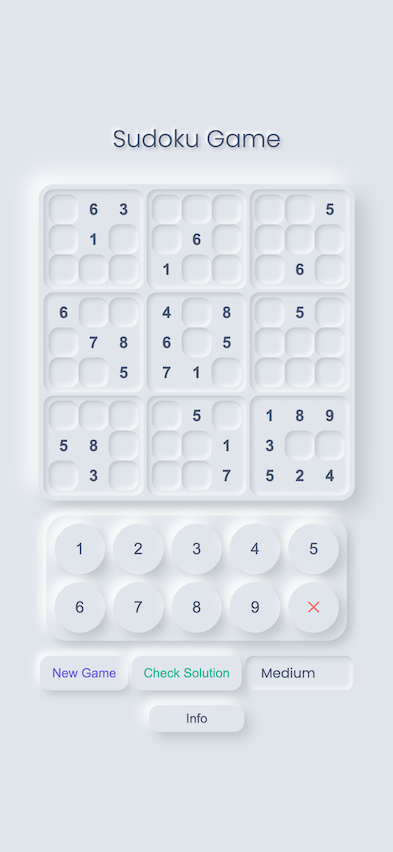
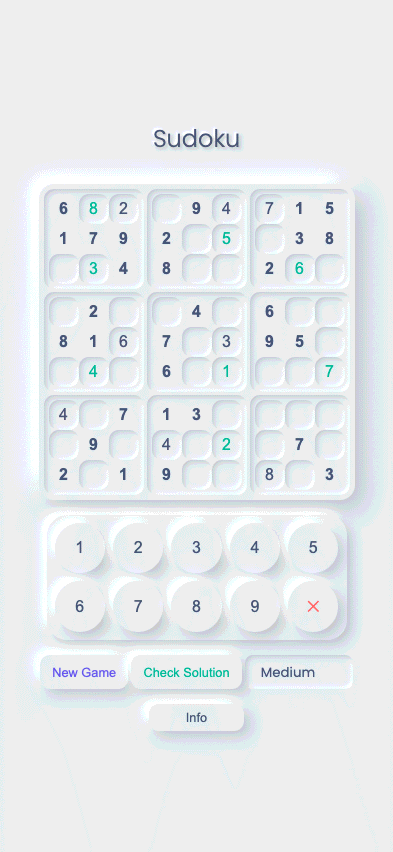
Sudoku: title without 'Game', N for a new game, key table instructions; mouse-only hover; new screenshots

diff --git a/index.html b/index.html
@@ -3,18 +3,18 @@
 <head>
     <meta charset="UTF-8">
     <meta name="viewport" content="width=device-width, initial-scale=1.0">
-    <title>Sudoku Game</title>
+    <title>Sudoku</title>
     <meta name="description" content="Challenge your mind with this classic Japanese number puzzle game. Fill the grid following Sudoku rules.">
     <meta name="theme-color" content="#e0e5ec">
     <meta property="og:type" content="website">
     <meta property="og:site_name" content="DanyilT Games">
-    <meta property="og:title" content="Sudoku Game">
+    <meta property="og:title" content="Sudoku">
     <meta property="og:description" content="Challenge your mind with this classic Japanese number puzzle game. Fill the grid following Sudoku rules.">
     <meta property="og:url" content="https://sudoku.dt-games.pages.dev/">
     <meta property="og:image" content="https://sudoku.dt-games.pages.dev/img/desktop-screenshot.png">
     <meta property="og:image:width" content="1440">
     <meta property="og:image:height" content="900">
-    <meta property="og:image:alt" content="Sudoku Game: a Sudoku puzzle with its number pad, on a computer">
+    <meta property="og:image:alt" content="Sudoku: a Sudoku puzzle with its number pad, on a computer">
     <meta name="twitter:card" content="summary_large_image">
     <link rel="icon" href="img/icon-32.png" sizes="32x32" type="image/png">
     <link rel="icon" href="img/icon.svg" type="image/svg+xml">
@@ -29,7 +29,7 @@
 </head>
 <body>
 <main class="game-container">
-    <h1>Sudoku Game</h1>
+    <h1>Sudoku</h1>
     <div class="sudoku-grid" data-play-area>
         <!-- 9x9 Sudoku grid -->
         <script>
@@ -76,17 +76,22 @@
         </div>
         <div class="instructions">
             <h2>How to Play:</h2>
-            <p>Fill the grid with numbers from 1 to 9 so that each column, row, and 3x3 subgrid should not contain the same number more than once.</p>
+            <p>Fill the grid with the numbers 1 to 9, so that no row, column or 3 × 3 box has the same number twice.</p>
             <hr>
-            <h2>Keyboard Controls:</h2>
-            <p><b>Arrow keys / WASD</b> - Navigate the grid</p>
-            <p><b>1-9</b> - Enter numbers</p>
-            <p><b>Delete/Backspace</b> - Clear cell</p>
-            <p><b>Enter</b> - Check solution (when no cell is focused)</p>
-            <p><b>Shift+Enter</b> - Check solution (anytime)</p>
-            <p><b>Shift+1-5</b> - Change difficulty level</p>
-            <p><b>r</b> - New game</p>
-            <p><b>i</b> - Show/hide this info</p>
+            <!-- The controls, lined up: the keys (or the touch) on the left, what they do on the right -->
+            <table class="keys">
+                <tr><th colspan="2">Keys</th></tr>
+                <tr><td><kbd>↑</kbd> <kbd>←</kbd> <kbd>↓</kbd> <kbd>→</kbd><br><kbd>W</kbd> <kbd>A</kbd> <kbd>S</kbd> <kbd>D</kbd></td><td>Move around the grid</td></tr>
+                <tr><td><kbd>1</kbd> … <kbd>9</kbd></td><td>Fill in the number</td></tr>
+                <tr><td><kbd>Delete</kbd> <kbd>Backspace</kbd></td><td>Clear the cell</td></tr>
+                <tr><td><kbd>Enter</kbd></td><td>Check the solution (when no cell is selected)</td></tr>
+                <tr><td><kbd>Shift</kbd> + <kbd>Enter</kbd></td><td>Check the solution, any time</td></tr>
+                <tr><td><kbd>Shift</kbd> + <kbd>1</kbd> … <kbd>5</kbd></td><td>Difficulty: For a Bread to Expert</td></tr>
+                <tr><td><kbd>N</kbd></td><td>New game</td></tr>
+                <tr><td><kbd>I</kbd></td><td>Show or hide this info</td></tr>
+                <tr><th colspan="2">Mouse and touch</th></tr>
+                <tr><td><b>Click</b> or <b>tap</b> a cell</td><td>Select it, then pick a number on the pad (✕ clears it)</td></tr>
+            </table>
         </div>
     </aside>
     <div id="notification-container" class="notification-container"></div>
@@ -94,8 +99,8 @@
     <script src="js/buttons-handler.js"></script>
     <script src="js/extend-controls.js"></script>
 </main>
-<footer style="display: none">&copy; Dany | SudokuGame | 2025-2026 <hr> <a href="https://github.com/DanyilT/dt-games/tree/sudoku">source code</a></footer>
-<!-- Sudoku Game Code -->
+<footer style="display: none">&copy; Dany | Sudoku | 2025-2026 <hr> <a href="https://github.com/DanyilT/dt-games/tree/sudoku">source code</a></footer>
+<!-- Sudoku Code -->
 <script src="js/storage.js"></script>
 <script src="js/rules.js"></script>
 <script src="js/sudoku.js"></script>

diff --git a/css/page.css b/css/page.css
@@ -1,4 +1,4 @@
-/* Neomorphic Sudoku Game Styles
+/* Neomorphic Sudoku Styles
  * The page around the game: the colours, the layout, the title, the buttons, the info and the notifications (and
  * GameHub's frame view) */
 
@@ -83,8 +83,11 @@ button {
     box-shadow: 6px 6px 12px var(--shadow-dark), -6px -6px 12px var(--shadow-light);
     transition: box-shadow 0.2s ease, transform 0.2s ease;
 
-    &:hover {
-        box-shadow: 4px 4px 8px var(--shadow-dark), -4px -4px 8px var(--shadow-light);
+    /* Only with a mouse: on a touch screen it would stay that way after a tap */
+    @media (hover: hover) {
+        &:hover {
+            box-shadow: 4px 4px 8px var(--shadow-dark), -4px -4px 8px var(--shadow-light);
+        }
     }
 
     &:active {
@@ -146,6 +149,43 @@ select {
         border: none;
         height: 1px;
         background-color: var(--shadow-dark);
+    }
+}
+
+/* The controls, lined up in a table with no lines: the keys (or the touch) on the left, what they do on the right */
+.keys {
+    border-collapse: collapse;
+    font-size: 0.9rem;
+
+    th {
+        padding: 12px 0 4px;
+        color: var(--primary);
+        font-weight: 500;
+        text-align: left;
+    }
+
+    td {
+        padding: 5px 0;
+        vertical-align: baseline;
+    }
+
+    td:first-child {
+        padding-right: 20px;
+        white-space: nowrap;
+        line-height: 2;
+    }
+
+    /* A key: raised out of the page, like the buttons */
+    kbd {
+        display: inline-block;
+        min-width: 1.8em;
+        padding: 0 7px;
+        border-radius: 6px;
+        background: var(--background);
+        box-shadow: 2px 2px 4px var(--shadow-dark), -2px -2px 4px var(--shadow-light);
+        color: var(--primary);
+        font: 600 0.85em/1.8 "Poppins", sans-serif;
+        text-align: center;
     }
 }
 

diff --git a/js/buttons-handler.js b/js/buttons-handler.js
@@ -1,4 +1,8 @@
 document.addEventListener('DOMContentLoaded', function() {
+    // A tapped button shows its pressed look (:active) on iPhones and iPads too: Safari shows it only to a page that
+    // listens for touches
+    document.addEventListener('touchstart', function() {}, { passive: true });
+
     const infoBtn = document.getElementById('showInfoBtn');
     const infoContainer = document.querySelector('.info-container');
     const restartBtn = document.getElementById('newGameBtn');
@@ -24,11 +28,11 @@ document.addEventListener('DOMContentLoaded', function() {
         // Toggle info container visibility
         if (infoContainer.style.display === 'none') {
             infoContainer.style.display = 'block';
-            infoBtn.textContent = 'Hide Info (i)';
+            infoBtn.textContent = 'Hide Info (I)';
             window.scrollTo({ top: window.scrollY + infoContainer.getBoundingClientRect().top, behavior: 'smooth' });
         } else {
             infoContainer.style.display = 'none';
-            infoBtn.textContent = 'Show Info (i)';
+            infoBtn.textContent = 'Show Info (I)';
             infoContainer.scrollTo({top: 0, behavior: 'smooth'});
         }
     }
@@ -46,7 +50,7 @@ document.addEventListener('DOMContentLoaded', function() {
         }
 
         // New game shortcut
-        if (e.key === 'r' && !e.repeat) {
+        if (e.key === 'n' && !e.repeat) {
             restartBtn.click();
         }
 

diff --git a/js/sudoku.js b/js/sudoku.js
@@ -1,5 +1,5 @@
 /**
- * Sudoku Game
+ * Sudoku
  *
  * The classic number puzzle: fill the 9×9 grid so that no row, column or 3×3 box has a digit twice.
  * The rules (the puzzle, made from the run's random numbers, and when it's solved) are in js/rules.js: this file shows the

diff --git a/README.md b/README.md
@@ -1,9 +1,9 @@
-# Sudoku Game
+# Sudoku
 [![sudoku@v1.0.0](https://img.shields.io/badge/sudoku-v1.0.0-blue)](https://github.com/DanyilT/dt-games/releases/tag/sudoku@v1.0.0)
 
 Challenge your mind with this classic Japanese number puzzle game. Fill the grid following Sudoku rules.
 
-![Sudoku Game on a computer](img/desktop-screenshot.png)
+![Sudoku on a computer](img/desktop-screenshot.png)
 
 **[Play in GameHub](https://gamehub.foo/g/sudoku)** · [Play directly](https://sudoku.dt-games.pages.dev) · [Source code](https://github.com/DanyilT/dt-games/tree/sudoku)
 
@@ -18,7 +18,7 @@ Challenge your mind with this classic Japanese number puzzle game. Fill the grid
 | <kbd>Enter</kbd> | Check the solution (when no cell is selected) |
 | <kbd>Shift</kbd> + <kbd>Enter</kbd> | Check the solution |
 | <kbd>Shift</kbd> + <kbd>1</kbd> … <kbd>5</kbd> | Difficulty: For a Bread / Easy / Medium / Hard / Expert |
-| <kbd>R</kbd> | New game |
+| <kbd>N</kbd> | New game |
 | <kbd>I</kbd> | Show or hide the info (your wins and the instructions) |
 
 On a phone or tablet:
